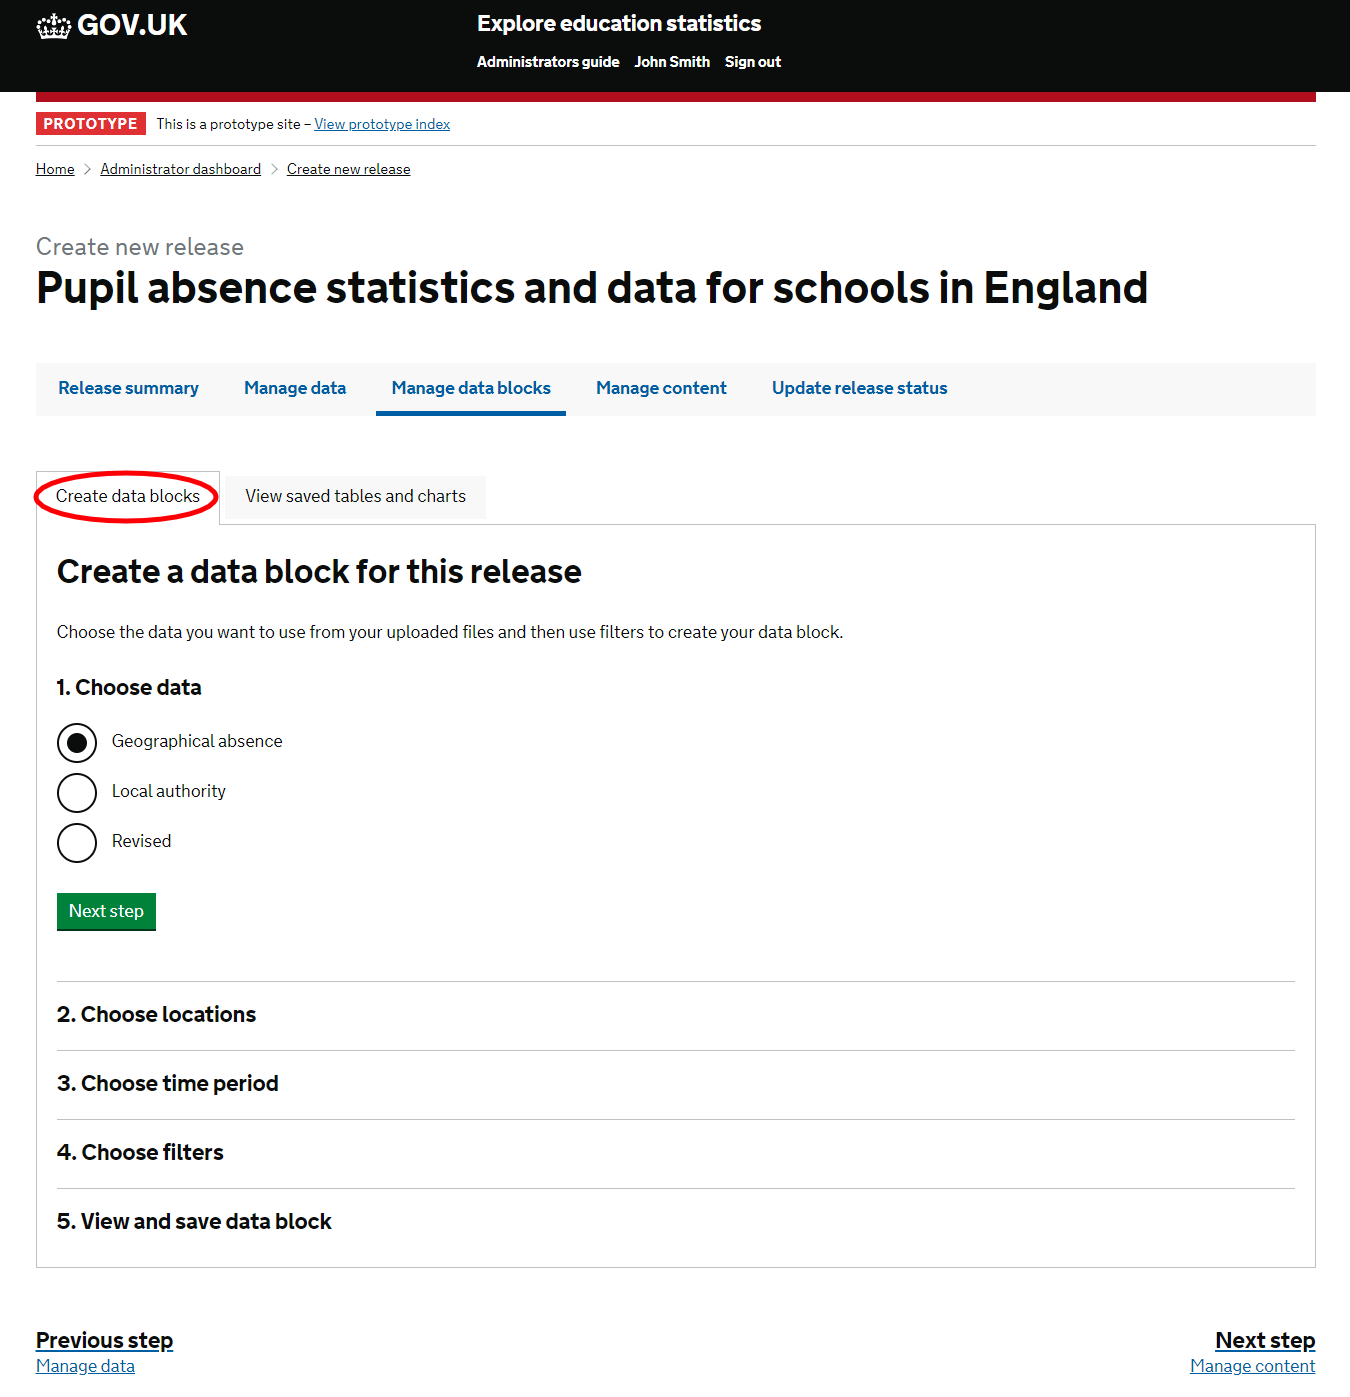
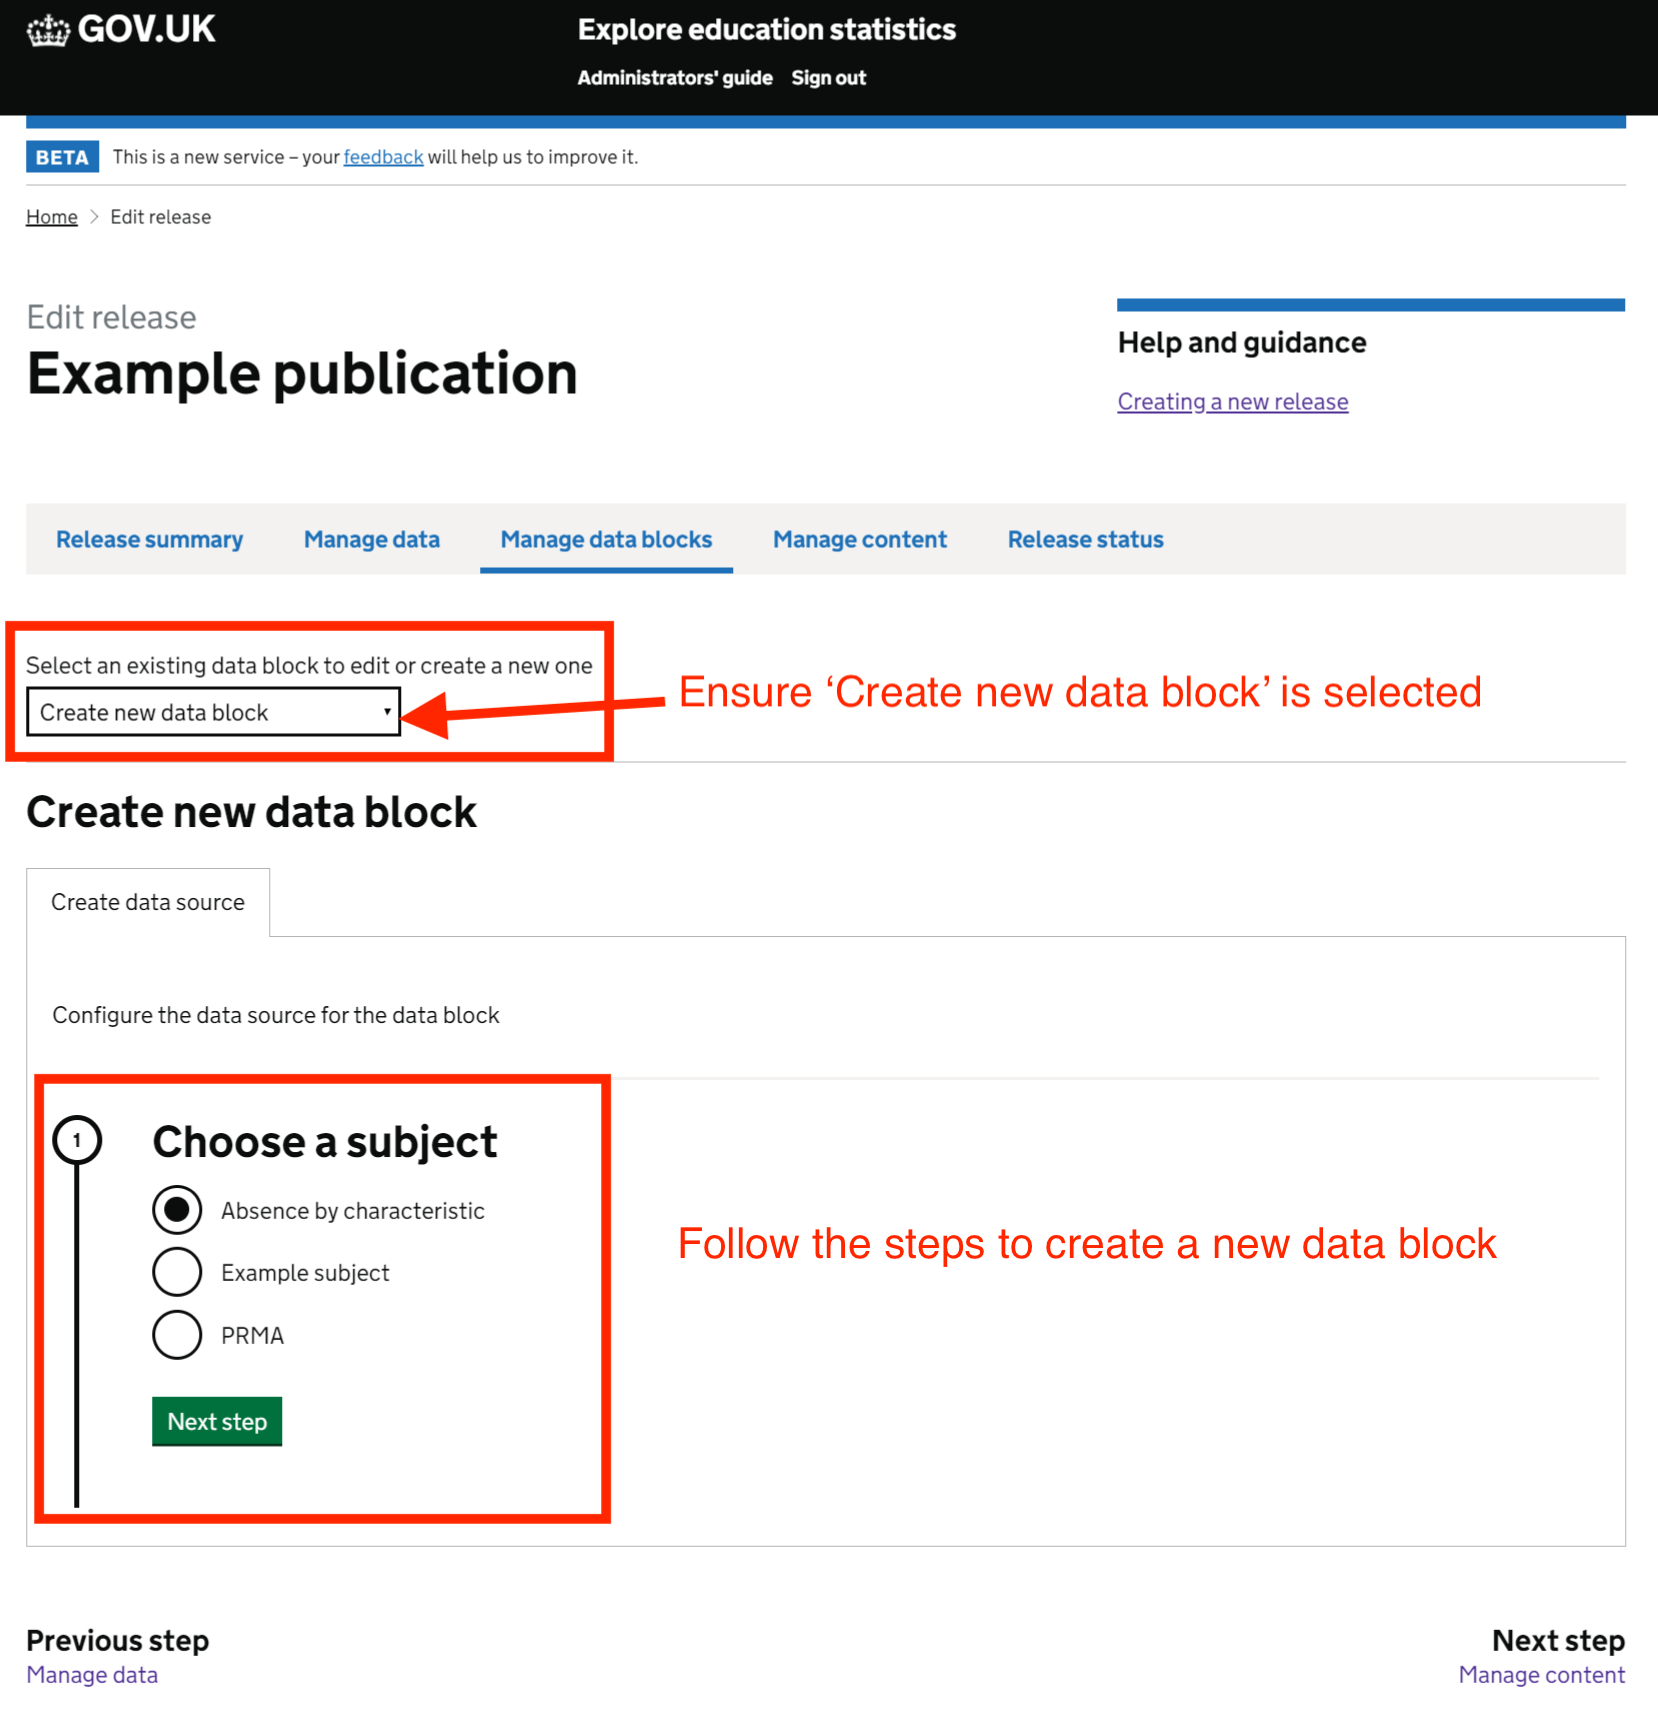
BAU-187 Creating a new release

diff --git a/src/explore-education-statistics-admin/src/pages/documentation/DocumentationCreateNewRelease.tsx b/src/explore-education-statistics-admin/src/pages/documentation/DocumentationCreateNewRelease.tsx
@@ -5,15 +5,15 @@ import Link from '@admin/components/Link';
 import StepNav from './components/StepByStep';
 import StepNavItem from './components/StepByStepItem';
 import imageChoosePublication from './images/guidance/guidance-publication-select.png';
-import imageCreateReleaseButton from './images/guidance/guidance-create-release-button.jpg';
-import imageCreateReleaseEditSummary from './images/guidance/guidance-create-release-edit-summary.jpg';
-import imageCreateReleaseNavigation from './images/guidance/guidance-create-release-navigation.jpg';
+import imageCreateReleaseButton from './images/guidance/guidance-create-release-button.png';
+import imageCreateReleaseEditSummary from './images/guidance/guidance-create-release-edit-summary.png';
+import imageCreateReleaseNavigation from './images/guidance/guidance-create-release-navigation.png';
 import imageCreateReleaseDataTab from './images/guidance/guidance-data-tab.png';
 import imageCreateReleaseFootnotesTab from './images/guidance/guidance-footnotes-tab.png';
 import imageCreateReleaseFileTab from './images/guidance/guidance-file-tab.png';
 import imageCreateReleaseDatablockCreate from './images/guidance/guidance-datablocks-create.png';
-import imageCreateReleaseDatablockSaved from './images/guidance/guidance-datablocks-delete.png';
-import imageCreateReleaseManageContent from './images/guidance/guidance-manage-content.jpg';
+import imageCreateReleaseDatablockSaved from './images/guidance/guidance-datablocks-configure.png';
+import imageCreateReleaseManageContent from './images/guidance/guidance-content-edit.png';
 import imageSelectTheme from './images/guidance/guidance-publication-select-theme.png';
 
 const DocumentationCreateNewRelease = ({ location: _ }: RouteChildrenProps) => {
